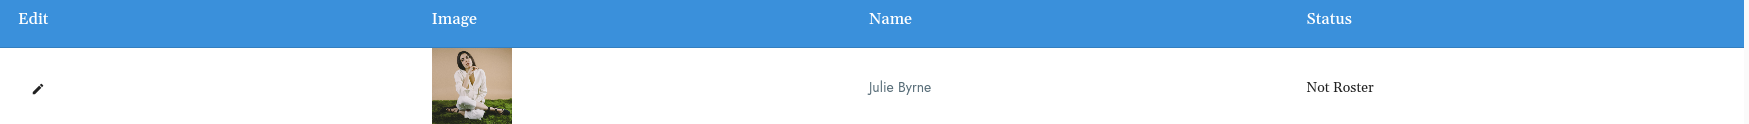
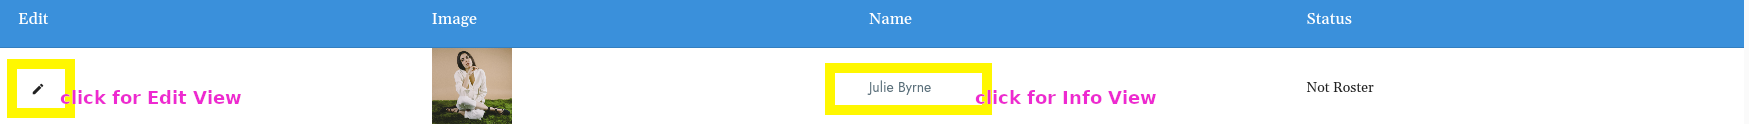
artist_page draft for chris/sara review

Changed region(s): [[0.4631, 0.5081, 0.6792, 0.9435], [0.0, 0.4597, 0.1544, 0.9677]]

diff --git a/artist_page.md b/artist_page.md
@@ -1,67 +1,57 @@
 # How to Create Artist Pages:
-> Edit artist photos, tour dates, roster status, social media links, featured products, email list and more!
+> Edit Artist photos, tour dates, press contacts, roster status, social media links, featured products, email list and more!
 
 
-<p align="center"><img width=50% height=50% src="views/artist_page.png"></p>
+<p align="center"><img width=50% height=50% src="views/artist_page.gif"></p>
 
 ## Getting Started
-#### Located on the Toolbar Under "Artists": <br />
+#### Located on the Toolbar Under "Artists":
+![](views/toolbar_artist.png)
 Or go straight here:  ``/cms/artists``<br />
-Select: **+ Add** <br />
 
+**Select:``+ Add``** <br />
+**This will bring you to a new Artist edit view.**
+You can use the **Spotify Import** tool to quickly add the "Name", "Sort Name" and "URL Alias" &mdash; or add manually:
+<p align="center"><img width=50% height=50% src="views/add_new_artist.gif"></p>
 
-**Creating an Artist page is the first step for adding any new product or album.** 
+If entering this information manually, **don't forget to fill in the "URL alias".** To keep these consistent throughout your site, replace spaces with underscores so they match the Spotify Import generated URLs, for example: ``/artist_name``
 
-Once you have created an Artist (or Album, Product, Instance) there are two places to edit &mdash; the **edit view** and the **info** or **details view**: 
+## Editing Artist Content & Info
 
-The edit view is located by clicking the pencil icon or the "edit" button <br>
-``/cms/albums``
-
-
+Once you've added a new Artist, there are two places to edit Artist content &mdash; the **edit view** and the **info view**:
 
 ![](views/edit_view.png)
+The **edit view** is located by clicking the pencil icon or the "edit" button.
 
+The **info view** is displayed after clicking on the Artist name link once you have created an Artist. In this example above we created an Artists, Julie Byrne, and then clicked the link which was located under the name column.
 
-The details or info view is displayed after clicking on the link once you have created an Artist. In this example above we created an Artists, Julie Byrne, and then clicked the link which was located under the name column.
+Here we can select the "edit button" for edit view, and also access info view to edit featured products, social media links, contacts and other data that is only accessible from this screen:
 
-Here we can edit featured products, social media links, contacts and other data that is only accessible from this screen: 
-
-``/cms/albums/info``
 ![](views/info_view.png)
 
 
-
-## Smart Import 
-Once you've clicked add to create a new Artist, you will be taken to a blank edit screen. The **Smart Import** tool will quickly generate name, sort name, URL alias & Spotify Artist URI for existing artists. 
-
-![](views/spotify_artist.png)
-
-If the Artist is not on Spotify &mdash; you can manually enter this information in. 
-
-**Remember to fill in the URL alias at the bottom.** To keep these consistent throughout your site, replace spaces with underscores so they match the Smart Import generated URLs, for example: ``/artist_name``
-
 ## Roster Status
-Choose between **Active Roster**, **Full Roster**, **Inactive** or **Not On Roster**. 
+Choose between **Active Roster**, **Full Roster**, **Inactive** or **Not On Roster**.
 
-Only Artists that are Active Roster will display on the Artists drop down on the Menu bar. This list of artists is also located at ``/artist``. 
+Only Artists that are "Active Roster" will display on the Artists drop down on the Menu bar. This list of artists is also located at ``/artist``.
 
-Full Roster artists are displayed at the bottom of the Artist section. 
+"Full Roster" Artists are displayed at the bottom of "Active Roster" Artists in the Artist section.
 
-**Example:** If you'd like to sell products from Artists that are not on your label you would assign them "Not On Roster" so they are not displayed on these lists. 
+**Example:** To sell products for Artists that are not on your label, you would still add them as an Artist in the CMS, but select "Not On Roster" so they are not displayed on the Artist page or drop down.
 
 ## Bio
-Add information about the Artist here to be displayed on the Artist page. 
+Add information about the Artist here to be displayed on the Artist page.
 
 ## Email List
 
-A “Join Email List” button will display if this artist has a Mailchimp URL and "Has Email List" is checked. 
+A “Join Email List” button will display if this artist has a Mailchimp URL and "Has Email List" is checked.
 
 ![](views/artist_page_email_list.png)
 
-## Songkick Artist ID 
-The Tour section on each Artist page as well as the main Tour section of the website, pulls in tour dates based on the Songkick Artist ID. 
+## Songkick Artist ID
+The Tour section on each Artist page as well as the main Tour section of the website, pulls in tour dates based on the Songkick Artist ID.
 
-Add Songkick Artist ID under **Extra Information**. You can find the artist Songkick Artist ID in the URL of their Songkick page
+In the Artist edit view, you can add "Songkick Artist ID"under **Extra Information**. You can find the artist Songkick Artist ID in the URL of their Songkick page
 
 **Example:** ``https://www.songkick.com/artists/8490418-katy-kirby``. <br>
 The Songkick Artist ID is: **8490418**
@@ -72,10 +62,14 @@ The Songkick Artist ID is: **8490418**
 For additional help troubleshooting any problems with tour dates displaying &mdash; please see the [Tours](tours.md) section.
 
 ## Photo
-The artist photo with the lowest display order will be shown on the Artist page. Only one photo can currently be displayed at a time. 
+The Artist photo with the lowest display order will be shown on the Artist page. Only one photo can currently be displayed at a time.
+<p align="center"><img width=80% height=80% src="views/artist_photo.png"></p>
 
-## Links
-Social media links will display underneath the Artist photo. You can edit these pages in the Links tab of the Artist detail / info page: 
+## Social Media Links
+Social media links will display underneath the Artist photo on the Artist page.
+<p align="center"><img width=80% height=80% src="views/social_links.png"></p>
+
+You can edit these pages in the Links tab of the Artist info page:
 
 ![](views/artist_page_links.png)
 
@@ -83,6 +77,6 @@ Social media links will display underneath the Artist photo. You can edit these 
 Releases may be added to the artist page under the "Artist Page Albums" tab. If there is a product associated with the album this image will be a link to that product.
 
 ## Featured Products
-These products will be displayed to the right of the Artist photo. We recommend having two products here, because adding too many can look a little chaotic, but you can add more!
+These products will be displayed to the right of the Artist photo. We recommend having two products here, they will auto populate with the Artist's best selling products.
 
 ![](views/featured_artist_page.png)
